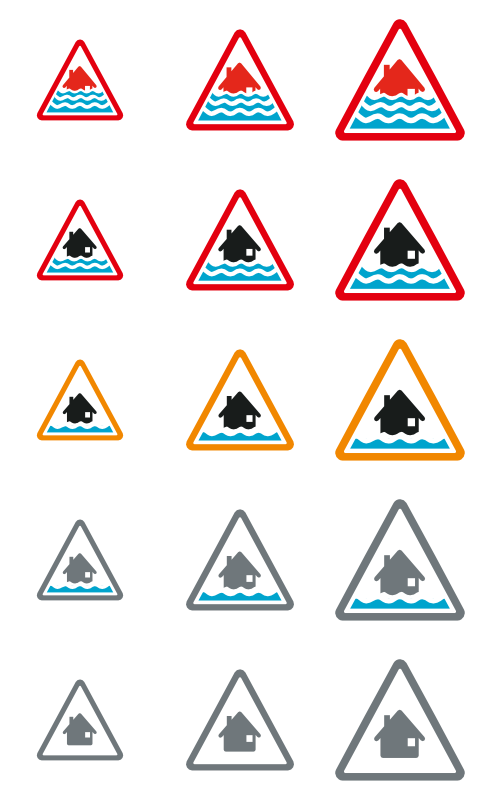
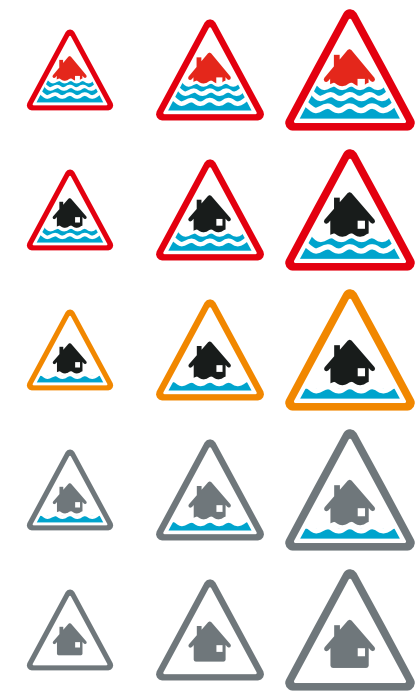
Draft warning flood component

diff --git a/client/sass/components/_warning-flood.scss b/client/sass/components/_warning-flood.scss
@@ -1,0 +1,98 @@
+.defra-warning-flood {
+    @extend .govuk-inset-text;
+    position:relative;
+    display: table;
+    padding:0px;
+    margin-top:0px;
+    .defra-warning-flood__text {
+        display: table-cell;
+        vertical-align: middle;
+        width:100%;
+        padding-top:15px;
+        padding-bottom:15px;
+        @include govuk-font($size: 19);
+        strong {
+            @include govuk-font($size: 24, $weight: bold);
+            display: block;
+        }
+        @include mq ($from: tablet) {
+            padding-top:20px;
+            padding-bottom:20px;
+        }
+    }
+    .defra-warning-flood__icon {
+        display: table-cell;
+        vertical-align: middle;
+        @include mq ($from: tablet) {
+            padding:10px;
+        }
+    }
+    .defra-warning-flood__icon:after {
+        display: block;
+        content:'';
+        background: transparent url('#{$govuk-images-path}icon-flood-symbols-2x.png') no-repeat;
+        background-size: 210px;
+        width: 70px;
+        height: 70px;
+    }
+    &:hover {
+        // opacity:0.85;
+        cursor: pointer;
+    }
+}
+.defra-warning-flood--severe-flood-warning {
+    @extend .defra-warning-flood;
+    background-color: #e3000f;
+    border-color:#e3000f;
+    color:white;
+    a {
+        color:white;
+    }
+    .defra-warning-flood__icon:after {
+        background-position: 0% 0%;
+        @include mq ($from: tablet) {
+            background-position: 50% 0%;
+        }
+    }
+    &:before {
+        content:'';
+        position:absolute;
+        top:0px;
+        bottom:0px;
+        width:1px;
+        left:0px;
+        background-color: mix(white, #e3000f, 40%);
+    }
+}
+.defra-warning-flood--flood-warning {
+    @extend .defra-warning-flood;
+    background-color: mix(white, #e3000f, 80%);
+    border-color:#e3000f;
+    .defra-warning-flood__icon:after {
+        background-position: 0% 25%;
+        @include mq ($from: tablet) {
+            background-position: 50% 25%;
+        }
+    }
+}
+.defra-warning-flood--flood-alert {
+    @extend .defra-warning-flood;
+    background-color: mix(white, #f18700, 80%);
+    border-color:#f18700;
+    .defra-warning-flood__icon:after {
+        background-position: 0% 50%;
+        @include mq ($from: tablet) {
+            background-position: 50% 50%;
+        }
+    }
+}
+.defra-warning-flood--warning-removed {
+    @extend .defra-warning-flood;
+    background-color:govuk-colour('grey-3');
+    .defra-warning-flood__icon:after {
+        background-position: 0% 75%;
+        @include mq ($from: tablet) {
+            background-position: 50% 75%;
+        }
+    }
+}

diff --git a/server/views/national.html b/server/views/national.html
@@ -22,12 +22,18 @@
     {% if model.floods.length %}
       {% for group in model.groups %}
         {% if group.floods %}
-          <div class="defra-warning-text-flood defra-warning-text-flood--large defra-warning-text-flood--{{ group.severity.hash }}">
-            <span class="defra-warning-text-flood__icon"></span>
-            <strong class="defra-warning-text-flood__text">
-              {{ group.title | lower }}
-              <span class="defra-warning-text-flood__secondary">{{ group.severity.subTitle }}</span>
-            </strong>
+          <div class="defra-warning-flood defra-warning-flood--{{ group.severity.hash }}">
+            <span class="defra-warning-flood__icon"></span>
+            <div class="defra-warning-flood__text">
+              <strong>
+                <a href="">
+                  {{ group.title | lower }}
+                </a>
+              </strong>
+              {% if group.id < 4 %}
+              {{ group.severity.subTitle }}
+              {% endif %}
+            </div>
           </div>
         {% endif %}
       {% endfor %}
@@ -35,6 +41,7 @@
       <p class="govuk-body">There are currently no flood warnings or alerts in force.</p>
     {% endif %}
 
+    <!--
     {% if model.floods.length %}
     <div class="defra-app-map">
       <div class="defra-app-map__container">
@@ -66,7 +73,7 @@
       </div>
     </div>
     {% endif %}
-
+    -->
     <p class="govuk-body">If you live near a river or the coast you may be able to <a href="https://www.gov.uk/sign-up-for-flood-warnings">get flood warnings by phone, text or email</a>. This service is free.</p>
 
     <h2 class="govuk-heading-m govuk-!-margin-top-4">
@@ -79,7 +86,7 @@
     </p>
 
     {% if model.hasOutlookConcern %}
-    <div class="app-map">
+    <div class="app-map govuk-!-margin-bottom-6">
       <div class="app-map__container">
         <div class="map" id="map-outlook" hidden>
           <div class="map__container">

diff --git a/server/views/levels.html b/server/views/levels.html
@@ -27,6 +27,7 @@
     </div>
 </div>
 
+<!--
 <div class="govuk-grid-row">
     <div class="govuk-grid-column-two-thirds">
         <div class="govuk-!-margin-top-6">
@@ -42,8 +43,8 @@
         </div>
     </div>
 </div>
+-->
 
-<!--
 <div class="govuk-grid-row">
     <div class="govuk-grid-column-two-thirds">
         <div class="defra-search-summary govuk-!-margin-top-6">
@@ -153,7 +154,6 @@
         </ul>
     </div>
 </div>
--->
 
 {% endblock %}
 

diff --git a/server/models/severity.js b/server/models/severity.js
@@ -27,11 +27,11 @@ const severity = [{
   isActive: true
 }, {
   id: 4,
-  name: 'Warning removed',
+  name: 'warning removed',
   title: 'Warning removed',
   pluralisedTitle: 'Warnings removed',
   hash: 'warning-removed',
-  subTitle: 'Within the last 24 hours',
+  subTitle: 'within the last 24 hours',
   tagline: '',
   isActive: false
 }]

diff --git a/server/models/views/national.js b/server/models/views/national.js
@@ -15,7 +15,8 @@ class ViewModel {
       const group = grouped[item.id]
       const count = group ? group.length : 0
       return {
-        name: item.id,
+        id: item.id,
+        name: item.name,
         severity: item,
         title: `${count} ${count === 1 ? item.title : item.pluralisedTitle}`,
         floods: group,

diff --git a/client/sass/application.scss b/client/sass/application.scss
@@ -27,7 +27,7 @@ $govuk-global-styles: true;
 
 // Components
 @import "components/cookie-banner";
-@import "components/warning-text";
+@import "components/warning-flood";
 @import "components/related-items";
 @import "components/map";
 @import "components/bar-chart";
